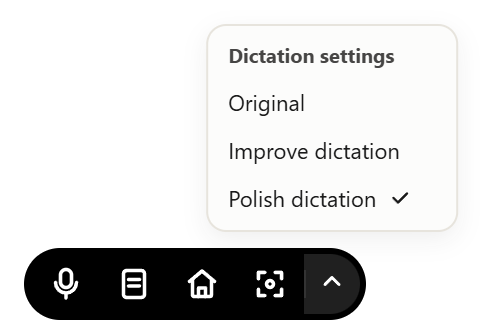
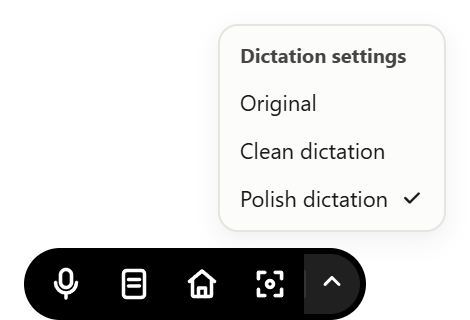
fix: restore Clean dictation and use system-trusted OpenAI connections

diff --git a/renderer/app.js b/renderer/app.js
@@ -590,7 +590,7 @@ function openaiCardHtml(sttEngine) {
   return `<div role="radio" tabindex="0" class="engine-option${isPinned ? " is-pinned" : ""}" data-stt-select="openai" aria-checked="${isChecked ? "true" : "false"}"><div class="engine-normal-view"><div class="engine-head"><strong>gpt-transcribe</strong><button type="button" class="engine-info-btn" data-stt-info="openai" title="Model details" aria-label="Model details">${sttInfoIcon(false)}</button></div><p>Uses OpenAI gpt-transcribe with your personal API key.</p></div><div class="engine-info-view"><div class="engine-info-head"><div class="engine-info-meta"><strong class="engine-info-title">gpt-transcribe</strong><span class="engine-info-tagline">Automatic AI error correction</span></div><button type="button" class="engine-info-btn active" data-stt-info="openai" title="Close details" aria-label="Close details">${sttInfoIcon(true)}</button></div><div class="engine-metrics"><div class="engine-metric-row"><div class="engine-metric-labels"><span>Accuracy</span><strong>93%</strong></div><div class="engine-bar-track"><div class="engine-bar-fill" style="width: 93%;"></div></div></div><div class="engine-metric-row"><div class="engine-metric-labels"><span>Speed (API)</span><strong>34×</strong></div><div class="engine-bar-track"><div class="engine-bar-fill" style="width: 80%;"></div></div></div></div></div></div>`;
 }
 
-  const sttCard = `<div class="settings-card">${ask}<div class="section-label">AI features</div><div class="engine-grid" role="radiogroup" aria-label="Speech-to-Text Engine">${parakeetCardHtml(sttEngine)}${openaiCardHtml(sttEngine)}</div><label class="key">OpenAI API Key ${sttEngine === "parakeet" ? "(Optional)" : ""}<div class="key-row"><input id="api-key" type="password" autocomplete="off" spellcheck="false" placeholder="${esc(hint)}"><button type="button" id="save-key" class="btn-primary">Save Key</button></div></label>${apiKeyMessage(settings) ? `<p class="api-key-status" role="status">${esc(apiKeyMessage(settings))}</p>` : ""}${improvementSwitches(settings)}</div>`;
+  const sttCard = `<div class="settings-card">${ask}<div class="section-label">AI features</div><div class="engine-grid" role="radiogroup" aria-label="Speech-to-Text Engine">${parakeetCardHtml(sttEngine)}${openaiCardHtml(sttEngine)}</div><label class="key">OpenAI API Key ${sttEngine === "parakeet" ? "(Optional)" : ""}<div class="key-row"><input id="api-key" type="password" autocomplete="off" spellcheck="false" placeholder="${esc(hint)}"><button type="button" id="save-key" class="btn-primary">Save Key</button></div></label>${apiKeyMessage(settings) ? `<p class="api-key-status" role="status">${esc(apiKeyMessage(settings))}</p>` : ""}${apiKeyRetry(settings)}${improvementSwitches(settings)}</div>`;
 
   // Floating Bubble Appearance
   const bubbleStyle = state.draftFloatingBubble || settings.floatingBubble || "active";
@@ -710,11 +710,34 @@ function apiKeyMessage(settings) {
   return settings.apiKeyStatus && settings.apiKeyStatus.state !== "valid" ? settings.apiKeyStatus.message || "" : "";
 }
 
+function apiKeyRetry(settings) {
+  return settings.hasKey && settings.apiKeyStatus?.state === "unavailable"
+    ? '<button type="button" class="btn-secondary" data-api-key-retry>Retry</button>' : "";
+}
+
+async function retryApiKey() {
+  if (state.onboardingBusy) return;
+  const speechStep = state.onboardingStep === "apikey";
+  state.onboardingBusy = true;
+  state.onboardingError = "";
+  document.querySelectorAll("[data-api-key-retry]").forEach(button => { button.disabled = true; button.textContent = "Checking…"; });
+  try {
+    const result = await window.openflow.dispatch("settings.verifyKey");
+    if (result.settings.hasWorkingKey) {
+      state.onboardingKey = "";
+      if (speechStep) await window.openflow.dispatch("settings.save", { sttEngine: "openai", onboardingDone: true, noteImproveEnabled: false, dictationCleanupEnabled: false });
+    }
+  } finally {
+    state.onboardingBusy = false;
+    await load();
+  }
+}
+
 function improvementSwitches(settings, prefix = "", compact = false) {
   const ready = Boolean(settings.hasWorkingKey);
   return `<div class="improvement-switches">${[
     ["Improve Notes", "note-improve", settings.noteImproveEnabled !== false, compact ? "Polish and rewrite notes using the sparkle button." : "Rewrite and polish your notes with AI. Use the sparkle button inside a note."],
-    ["Improve Dictation", "dictation-cleanup", settings.dictationCleanupEnabled === true, compact ? "Clean up dictated text before pasting. Choose Improve or Polish in the bubble." : "Remove filler words, stutters, and accidental repetitions before pasting. Choose Original, Improve dictation, or Polish dictation from the bubble menu."],
+    ["Improve Dictation", "dictation-cleanup", settings.dictationCleanupEnabled === true, compact ? "Clean up dictated text before pasting. Choose Clean or Polish in the bubble." : "Remove filler words, stutters, and accidental repetitions before pasting. Choose Original, Clean dictation, or Polish dictation from the bubble menu."],
   ].map(([label, feature, enabled, description]) => `<div class="improvement-switch-row"><div class="improvement-switch-copy"><div class="improvement-switch-heading"><strong>${label}</strong><span class="api-only">(API only)</span></div><p id="${prefix}${feature}-help">${description}</p></div><button type="button" class="switch-btn" role="switch" data-${feature}-enabled aria-checked="${ready && enabled}" aria-label="${label}" aria-describedby="${prefix}${feature}-help"${ready ? "" : " disabled"}><span class="switch-thumb"></span></button></div>`).join("")}</div>`;
 }
 
@@ -1056,7 +1079,7 @@ function paintOnboarding() {
   }
   if (state.onboardingStep === "apikey") {
     const focused = document.activeElement?.id === "onboard-api-key";
-    host.innerHTML = `<div class="onboarding-card ai-onboarding" role="dialog" aria-modal="true"><div><h2>Enter OpenAI API key</h2><p class="sub">Use your OpenAI API key for cloud dictation and optional AI improvements.</p></div><div class="key-row"><input id="onboard-api-key" class="onboard-input" type="password" autocomplete="off" spellcheck="false" placeholder="sk-..." aria-label="OpenAI API key"${state.onboardingBusy ? " disabled" : ""}></div>${state.onboardingError || apiKeyMessage(settings) ? `<p class="api-key-status" role="status">${esc(state.onboardingError || apiKeyMessage(settings))}</p>` : ""}<div class="onboarding-actions"><button type="button" class="btn-secondary" data-onboard-back${state.onboardingBusy ? " disabled" : ""}>Back</button><button type="button" class="btn-primary" data-onboard-save-key${state.onboardingBusy ? " disabled" : ""}>${state.onboardingBusy ? "Checking…" : "Save & continue"}</button></div></div>`;
+    host.innerHTML = `<div class="onboarding-card ai-onboarding" role="dialog" aria-modal="true"><div><h2>Enter OpenAI API key</h2><p class="sub">Use your OpenAI API key for cloud dictation and optional AI improvements.</p></div><div class="key-row"><input id="onboard-api-key" class="onboard-input" type="password" autocomplete="off" spellcheck="false" placeholder="sk-..." aria-label="OpenAI API key"${state.onboardingBusy ? " disabled" : ""}></div>${state.onboardingError || apiKeyMessage(settings) ? `<p class="api-key-status" role="status">${esc(state.onboardingError || apiKeyMessage(settings))}</p>` : ""}${apiKeyRetry(settings)}<div class="onboarding-actions"><button type="button" class="btn-secondary" data-onboard-back${state.onboardingBusy ? " disabled" : ""}>Back</button><button type="button" class="btn-primary" data-onboard-save-key${state.onboardingBusy ? " disabled" : ""}>${state.onboardingBusy ? "Checking…" : "Save & continue"}</button></div></div>`;
     const input = host.querySelector("#onboard-api-key");
     if (input) { input.value = state.onboardingKey; if (focused && !input.disabled) input.focus(); }
     return;
@@ -1068,7 +1091,7 @@ function aiFeaturesOnboardingHtml(settings) {
   const ready = Boolean(settings.hasWorkingKey);
   const keyField = !ready ? `<div class="ai-onboarding-key"><label for="ai-onboard-key">OpenAI API key</label><div class="key-row"><input id="ai-onboard-key" class="onboard-input" type="password" autocomplete="off" spellcheck="false" placeholder="sk-..."${state.onboardingBusy ? " disabled" : ""}><button type="button" class="btn-primary" data-ai-onboard-save-key${state.onboardingBusy ? " disabled" : ""}>${state.onboardingBusy ? "Checking…" : "Save key"}</button></div><p class="sub">Enter a working API key to enable these options.</p></div>` : "";
   const message = state.onboardingError || apiKeyMessage(settings);
-  return `<div class="onboarding-card ai-onboarding" role="dialog" aria-modal="true" aria-labelledby="ai-onboarding-title"><div><h2 id="ai-onboarding-title">AI improvements</h2><p class="sub">Choose optional improvements for dictation and notes.</p></div>${improvementSwitches(settings, "onboard-", true)}${keyField}${message ? `<p class="api-key-status" role="status">${esc(message)}</p>` : ""}<div class="onboarding-actions"><button type="button" class="btn-primary" data-ai-onboard-continue${state.onboardingBusy ? " disabled" : ""}>Continue</button></div></div>`;
+  return `<div class="onboarding-card ai-onboarding" role="dialog" aria-modal="true" aria-labelledby="ai-onboarding-title"><div><h2 id="ai-onboarding-title">AI improvements</h2><p class="sub">Choose optional improvements for dictation and notes.</p></div>${improvementSwitches(settings, "onboard-", true)}${keyField}${message ? `<p class="api-key-status" role="status">${esc(message)}</p>` : ""}${apiKeyRetry(settings)}<div class="onboarding-actions"><button type="button" class="btn-primary" data-ai-onboard-continue${state.onboardingBusy ? " disabled" : ""}>Continue</button></div></div>`;
 }
 
 async function saveOnboardingKey(speechStep) {
@@ -1287,6 +1310,7 @@ document.addEventListener("DOMContentLoaded", () => {
   });
 
   document.querySelector("#view").addEventListener("click", async (event) => {
+    if (event.target.closest("[data-api-key-retry]")) { await retryApiKey(); return; }
     const copyOriginal = event.target.closest("[data-copy-dictation-original]");
     if (copyOriginal && window.openflow) {
       const row = (state.desk.history || []).find(row => row.id === copyOriginal.dataset.copyDictationOriginal);
@@ -2012,6 +2036,7 @@ document.addEventListener("DOMContentLoaded", () => {
   });
 
   document.querySelector("#onboarding").addEventListener("click", async (event) => {
+    if (event.target.closest("[data-api-key-retry]")) { await retryApiKey(); return; }
     const choose = event.target.closest("[data-onboard-choose]");
     if (choose) {
       const choice = choose.dataset.onboardChoose;

diff --git a/src/api-key-status.js b/src/api-key-status.js
@@ -3,7 +3,7 @@
 const crypto = require("node:crypto");
 const providers = require("./providers");
 
-function createApiKeyStatus({ readKey, fetchImpl = fetch, onChange = () => {} }) {
+function createApiKeyStatus({ readKey, fetchImpl = fetch, onChange = () => {}, retryDelay = 400 }) {
   let fingerprint = "";
   let state = { state: "missing", message: "" };
   let pending = null;
@@ -27,21 +27,52 @@ function createApiKeyStatus({ readKey, fetchImpl = fetch, onChange = () => {} })
     if (!key) { publish({ state: "missing", message: "" }); return status(); }
     publish({ state: "checking", message: "Checking API key…" });
     const work = (async () => {
-      try {
-        const request = providers.chatRequest({ provider: "openai", apiKey: key, model: "gpt-6-luna", system: "Return exactly OK.", user: "Key check." });
-        const body = JSON.parse(request.init.body);
-        delete body.temperature;
-        Object.assign(body, { reasoning_effort: "none", max_completion_tokens: 16, store: false });
-        const response = await fetchImpl(request.url, { ...request.init, body: JSON.stringify(body), signal: AbortSignal.timeout(12000) });
-        let next;
-        if (response.ok && providers.parseChatText(await response.json()).trim()) next = { state: "valid", message: "API key verified." };
-        else if ([401, 403].includes(response.status)) next = { state: "invalid", message: "API key rejected. Check the key and its permissions." };
-        else if (response.status === 429) next = { state: "unavailable", message: "Key could not be verified. Check API credit or try again shortly." };
-        else if (response.status === 404) next = { state: "invalid", message: "This key cannot access the improvement model." };
-        else next = { state: "unavailable", message: "Key could not be verified. Please try again." };
-        if (id === fingerprint && id === identify(readKey())) publish(next);
-      } catch {
-        if (id === fingerprint && id === identify(readKey())) publish({ state: "unavailable", message: "Could not reach OpenAI. Save the key again to retry." });
+      const request = providers.chatRequest({ provider: "openai", apiKey: key, model: "gpt-6-luna", system: "Return exactly OK.", user: "Key check." });
+      const body = JSON.parse(request.init.body);
+      delete body.temperature;
+      Object.assign(body, { reasoning_effort: "none", max_completion_tokens: 16, store: false });
+      const current = () => id === fingerprint && id === identify(readKey());
+      async function probe() {
+        let response;
+        try {
+          response = await fetchImpl(request.url, { ...request.init, body: JSON.stringify(body), signal: AbortSignal.timeout(15000) });
+        } catch (error) {
+          const code = String(error.cause?.code || error.code || "");
+          const certificate = /CERT|TLS|SSL/.test(code) || /ERR_CERT/.test(String(error.message));
+          const timeout = ["TimeoutError", "AbortError"].includes(error.name);
+          return { state: "unavailable", retryable: !certificate, message: certificate
+            ? "OpenAI's secure connection could not be verified. Check your system certificates or proxy, then retry."
+            : timeout ? "OpenAI verification timed out. Retry with the saved key."
+              : "Could not connect to OpenAI. Check your connection and retry with the saved key." };
+        }
+        if (response.ok) {
+          try {
+            if (providers.parseChatText(await response.json()).trim()) return { state: "valid", message: "" };
+          } catch {}
+          return { state: "unavailable", retryable: true, message: "OpenAI returned an incomplete verification response. Retry with the saved key." };
+        }
+        if ([401, 403].includes(response.status)) return { state: "invalid", message: "API key rejected. Check the key and its permissions." };
+        if (response.status === 404) return { state: "invalid", message: "This key cannot access the improvement model." };
+        if (response.status === 429) {
+          let quota = false;
+          try { quota = (await response.json()).error?.code === "insufficient_quota"; } catch {}
+          return { state: "unavailable", retryable: !quota, message: quota
+            ? "API credit is unavailable. Check billing, then retry with the saved key."
+            : "OpenAI is rate limiting verification. Please retry shortly." };
+        }
+        return { state: "unavailable", retryable: response.status === 408 || response.status >= 500,
+          message: "OpenAI could not verify the key right now. Retry with the saved key." };
+      }
+      for (let attempt = 0; attempt < 2; attempt++) {
+        const next = await probe();
+        if (!current()) break;
+        if (next.retryable && attempt === 0) {
+          await new Promise(resolve => setTimeout(resolve, retryDelay));
+          if (!current()) break;
+          continue;
+        }
+        publish({ state: next.state, message: next.message });
+        break;
       }
       return status();
     })();

diff --git a/docs/preview-clean-dictation.html b/docs/preview-clean-dictation.html
@@ -4,24 +4,22 @@
 <meta charset="utf-8">
 <title>OpenFlow — Improve Dictation</title>
 <style>
-*{box-sizing:border-box}html,body{margin:0;width:1100px;height:420px;overflow:hidden;background:#f5f4f0;color:#1a1a1a;font-family:"Segoe UI",system-ui,sans-serif;-webkit-font-smoothing:antialiased}
+*{box-sizing:border-box}html,body{margin:0;width:1100px;height:360px;overflow:hidden;background:#f5f4f0;color:#1a1a1a;font-family:"Segoe UI",system-ui,sans-serif;-webkit-font-smoothing:antialiased}
 body{padding:28px 32px;display:grid;grid-template-columns:400px 1fr;gap:32px;align-items:center}
-.visual{height:364px;background:#fcfcfb;border:1px solid #e5e1d7;border-radius:20px;display:flex;flex-direction:column;align-items:center;justify-content:center;padding:18px;gap:8px}
+.visual{height:304px;background:#fcfcfb;border:1px solid #e5e1d7;border-radius:20px;display:flex;align-items:center;justify-content:center;padding:10px}
 .visual img{display:block;width:364px;max-height:284px;object-fit:contain}
-.visual p{margin:0;color:#71716e;text-align:center;font-size:13px;line-height:1.5;max-width:300px}
 .copy{min-width:0}h1{font-family:Georgia,"Palatino Linotype",serif;font-size:36px;font-weight:500;letter-spacing:-.025em;line-height:1.1;margin:0 0 8px}
 .subtitle{font-size:16px;color:#71716e;margin:0 0 18px}
 .example{background:#fcfcfb;border:1px solid #e5e1d7;border-radius:12px;padding:13px 16px;margin-top:10px}
 .label{font-size:10px;font-weight:650;letter-spacing:.06em;color:#878683;margin-bottom:6px;text-transform:uppercase;display:flex;align-items:center;gap:7px}
 .example p{margin:0;font-size:16px;line-height:1.5}.filler{color:#9a968f;text-decoration:line-through;text-decoration-color:#bfb8ac}
 .result{background:#fff;border-color:#cbc5b8}.result .label{color:#1a1a1a}.result svg{width:12px;height:12px}
-.footer{margin:13px 0 0;color:#71716e;font-size:12px;line-height:1.5}
 </style>
 </head>
 <body>
-<div class="visual"><img src="clean-dictation-menu.png" alt="Actual OpenFlow bubble and compact Dictation settings menu with Polish dictation selected."><p>Hover over the arrow.<br>Choose Polish dictation for a smoother result.</p></div>
+<div class="visual"><img src="clean-dictation-menu.png" alt="Actual OpenFlow bubble and compact Dictation settings menu with Original, Clean dictation, and Polish dictation selected."></div>
 <div class="copy"><h1>Improve Dictation</h1><p class="subtitle">Speak naturally. Paste clearly.</p>
 <div class="example"><div class="label">Original example</div><p><span class="filler">Um,</span> the meeting with Alice are on Friday at 2 pm. I wanted to ask if you can send me the report before then. Please don't cancel it.</p></div>
 <div class="example result"><div class="label"><svg viewBox="0 0 16 16" fill="none" stroke="currentColor" stroke-width="1.7" stroke-linecap="round" stroke-linejoin="round"><path d="m3 8 3 3 7-7"/></svg>Polish dictation</div><p>The meeting with Alice <strong>is</strong> on <strong>Friday at 2 pm</strong>. Could you send me the report before then? Please <strong>don't cancel</strong> it.</p></div>
-<p class="footer">Remove fillers. Correct grammar. Smooth phrasing. Keep the meaning.<br>Optional AI improvements use your own OpenAI API key.</p></div>
+</div>
 </body></html>

diff --git a/renderer/overlay.html b/renderer/overlay.html
@@ -129,7 +129,7 @@
     <div id="menu" class="menu cleanup-menu" role="menu" aria-labelledby="cleanup-menu-title" hidden>
       <div class="cleanup-title" id="cleanup-menu-title" role="heading" aria-level="2">Dictation settings</div>
       <button class="row" type="button" role="menuitemradio" data-cleanup-mode="raw" aria-checked="true"><span class="cleanup-label">Original</span><span class="mark" aria-hidden="true"><svg viewBox="0 0 16 16" fill="none" stroke="currentColor" stroke-width="1.6" stroke-linecap="round" stroke-linejoin="round"><path d="m3.5 8 3 3 6-6"/></svg></span></button>
-      <button class="row" type="button" role="menuitemradio" data-cleanup-mode="fillers" aria-checked="false"><span class="cleanup-label">Improve dictation</span><span class="mark" aria-hidden="true"><svg viewBox="0 0 16 16" fill="none" stroke="currentColor" stroke-width="1.6" stroke-linecap="round" stroke-linejoin="round"><path d="m3.5 8 3 3 6-6"/></svg></span></button>
+      <button class="row" type="button" role="menuitemradio" data-cleanup-mode="fillers" aria-checked="false"><span class="cleanup-label">Clean dictation</span><span class="mark" aria-hidden="true"><svg viewBox="0 0 16 16" fill="none" stroke="currentColor" stroke-width="1.6" stroke-linecap="round" stroke-linejoin="round"><path d="m3.5 8 3 3 6-6"/></svg></span></button>
       <button class="row" type="button" role="menuitemradio" data-cleanup-mode="polished" aria-checked="false"><span class="cleanup-label">Polish dictation</span><span class="mark" aria-hidden="true"><svg viewBox="0 0 16 16" fill="none" stroke="currentColor" stroke-width="1.6" stroke-linecap="round" stroke-linejoin="round"><path d="m3.5 8 3 3 6-6"/></svg></span></button>
     </div>
     <button id="grip" type="button" aria-label="OpenFlow"><span></span></button>
@@ -434,7 +434,7 @@
       cleanupToggle.hidden = !open || !cleanupEnabled;
       cleanupToggle.setAttribute("aria-expanded", String(menuOpen));
       cleanupToggle.classList.toggle("is-cleaned", cleanupMode !== "raw");
-      cleanupToggle.dataset.tooltip = cleanupMode === "polished" ? "Polish dictation" : cleanupMode === "fillers" ? "Improve dictation" : "Original";
+      cleanupToggle.dataset.tooltip = cleanupMode === "polished" ? "Polish dictation" : cleanupMode === "fillers" ? "Clean dictation" : "Original";
       menu.hidden = !open || !menuOpen;
       mic.setAttribute("aria-pressed", mode === "listening" ? "true" : "false");
       document.querySelectorAll("[data-cleanup-mode]").forEach(button => {

diff --git a/test/api-key-status.test.js b/test/api-key-status.test.js
@@ -51,3 +51,25 @@ test('Luna cleanup uses one compatible request and preserves medium reasoning qu
  }});
  await completion.complete({kind:'dictation-cleanup',system:'test',user:'test',temperature:0});assert.equal(calls,1);
 });
+
+test('temporary network and service errors retry once; saved keys can be rechecked without saving',async()=>{
+ for(const failure of [()=>{throw Object.assign(new Error('offline'),{cause:{code:'ECONNRESET'}})},()=>reply(503),()=>({ok:true,status:200,json:async()=>{throw SyntaxError('not JSON')}})]){
+  let calls=0;const gate=createApiKeyStatus({readKey:()=> 'test-key',retryDelay:0,fetchImpl:async()=>++calls===1?failure():reply()});
+  await gate.validate();assert.equal(calls,2);assert.equal(gate.ready(),true);
+ }
+ let available=false,calls=0;
+ const gate=createApiKeyStatus({readKey:()=> 'unchanged-key',retryDelay:0,fetchImpl:async()=>{calls++;if(!available)throw Error('offline');return reply()}});
+ await gate.validate();assert.equal(gate.status().state,'unavailable');assert.doesNotMatch(gate.status().message,/save.*again/i);
+ available=true;await gate.validate(true);assert.equal(gate.ready(),true);assert.equal(calls,3);
+});
+
+test('certificates, rejected keys, quota and malformed replies retain distinct safe statuses',async()=>{
+ const cases=[
+  [()=>{throw Object.assign(new Error('secret-key'),{cause:{code:'SELF_SIGNED_CERT_IN_CHAIN'}})},'unavailable',/secure connection/,1],
+  [()=>reply(401),'invalid',/rejected/,1],
+  [()=>({ok:false,status:429,json:async()=>({error:{code:'insufficient_quota'}})}),'unavailable',/credit/,1],
+  [()=>({ok:true,status:200,json:async()=>({choices:[]})}),'unavailable',/incomplete verification response/,2],
+  [()=>{throw Object.assign(new Error('secret-key'),{name:'TimeoutError'})},'unavailable',/timed out/,2]
+ ];
+ for(const [failure,state,message,expected] of cases){let calls=0;const gate=createApiKeyStatus({readKey:()=> 'secret-key',retryDelay:0,fetchImpl:async()=>{calls++;return failure()}});await gate.validate();assert.equal(gate.status().state,state);assert.match(gate.status().message,message);assert.doesNotMatch(JSON.stringify(gate.status()),/secret-key/);assert.equal(calls,expected);assert.equal(gate.ready(),false)}
+});

diff --git a/README.md b/README.md
@@ -39,14 +39,14 @@ Hover over the arrow on the right of the bubble to open **Dictation settings**:
 | Mode | What it does |
 | :--- | :--- |
 | **Original** | Paste without an extra AI rewrite. |
-| **Improve dictation** | Remove filler sounds, stutters, and accidental repetitions while keeping your wording and meaning. |
+| **Clean dictation** | Remove filler sounds, stutters, and accidental repetitions while keeping your wording and meaning. |
 | **Polish dictation** | Also correct grammar and smooth awkward or redundant phrasing, while preserving facts, tone, and language. |
 
 A small animated sparkle appears while AI cleanup is processing. If a request fails or the result fails validation, OpenFlow keeps the original text. Raw dictation remains in local history, with **Copy original** available after cleanup.
 
 The **AI improvements** onboarding lets you enable **Improve Notes** and **Improve Dictation** independently. It reuses an existing verified OpenAI key, or lets you enter one in the same window. Both switches remain disabled until the key works, and both retain their **(API only)** labels in **Settings → AI features**. Local Parakeet speech recognition remains available independently; AI cleanup uses OpenAI.
 
-**Usage → Note & Dictation API** combines note improvements with Improve and Polish Dictation: processed words, tokens, and estimated API cost over the last 30 days. New dictation requests use API-reported tokens when available, including cached input; older successful dictation cleanups are included as clearly marked estimates. Original mode adds no cleanup usage. OpenAI STT and local speech-recognition usage stay in their own views.
+**Usage → Note & Dictation API** combines note improvements with Clean and Polish Dictation: processed words, tokens, and estimated API cost over the last 30 days. New dictation requests use API-reported tokens when available, including cached input; older successful dictation cleanups are included as clearly marked estimates. Original mode adds no cleanup usage. OpenAI STT and local speech-recognition usage stay in their own views.
 
 ---
 
@@ -98,7 +98,7 @@ OpenFlow features a warm, distraction-free two-column layout (`820 × 540`) comb
 
 1. **Hold & Speak (`Ctrl` + `Win` or `microphone`)**: OpenFlow captures 16-bit PCM audio at 24 kHz and monitors RMS energy + speech-band zero-crossing rates. Pure silence is discarded automatically.
 2. **Transcribe (`Parakeet v3` Local or `OpenAI API`)**: Valid speech audio is sliced into 16 kHz mono WAV segments and sent either to the bundled **Parakeet v3** model (running warm in the background on your PC) or over HTTPS to `api.openai.com/v1/audio/transcriptions` (`gpt-transcribe`).
-3. **Optional AI cleanup**: Choose **Improve dictation** to remove speech fillers or **Polish dictation** to also improve grammar and phrasing. **Original** skips this step.
+3. **Optional AI cleanup**: Choose **Clean dictation** to remove speech fillers or **Polish dictation** to also improve grammar and phrasing. **Original** skips this step.
 4. **Direct Paste (`Ctrl` + `V`)**: When an editable input field was focused before recording started, OpenFlow writes the transcript to the clipboard and dispatches `Ctrl` + `V` into the target window.
 5. **Auto-Open Note (Fallback)**: When no text input field is focused—or if pasting is unavailable—OpenFlow automatically saves the dictated text as a new note and **immediately opens that note** in the UI.
 
@@ -125,7 +125,7 @@ OpenFlow has **zero subscriptions or middleman fees**:
 
 Download the latest Windows installer from the [**Releases**](https://github.com/LuiInventions/OpenFlow/releases) page:
 
-- **`OpenFlow-Setup-1.5.22.exe`** — Lightweight Windows NSIS Web/Stub Installer (~1 MB download) with customizable install directory, Start Menu entry, and Desktop shortcut. Automatically fetches the application package from GitHub Releases during setup, checks whether **Parakeet v3** is already installed (skipping download if present, or showing a live MB progress bar), and then opens OpenFlow. Notes use a narrow left rail to collapse, search, open another note, improve, and format. The rail icons line up with the first line of the note. Search in Notes shows every saved note, and long titles wrap instead of being cut off. Note improvement slides up under Copy and Save, and suggestions show a spinner while they generate. Includes Clean/Polish Dictation, verified-key onboarding, and combined Note & Dictation API usage.
+- **`OpenFlow-Setup-1.5.23.exe`** — Lightweight Windows NSIS Web/Stub Installer (~1 MB download) with customizable install directory, Start Menu entry, and Desktop shortcut. Automatically fetches the application package from GitHub Releases during setup, checks whether **Parakeet v3** is already installed (skipping download if present, or showing a live MB progress bar), and then opens OpenFlow. Notes use a narrow left rail to collapse, search, open another note, improve, and format. The rail icons line up with the first line of the note. Search in Notes shows every saved note, and long titles wrap instead of being cut off. Note improvement slides up under Copy and Save, and suggestions show a spinner while they generate. Includes Clean/Polish Dictation, verified-key onboarding, and combined Note & Dictation API usage.
 
 Requirements: Windows 10 or Windows 11 (64-bit). An OpenAI API key is optional.
 
@@ -139,7 +139,7 @@ npm test
 npm run dist
 ```
 
-This builds the Windows NSIS Web Stub installer (`release/nsis-web/OpenFlow-Setup-1.5.22.exe`).
+This builds the Windows NSIS Web Stub installer (`release/nsis-web/OpenFlow-Setup-1.5.23.exe`).
 
 For a full installer containing the application package, built locally without publishing:
 
@@ -147,7 +147,7 @@ For a full installer containing the application package, built locally without p
 npm run dist:local
 ```
 
-Output: `release-local/OpenFlow-Setup-1.5.22-local.exe`. Speech/text model downloads are separate; existing models on this PC are reused.
+Output: `release-local/OpenFlow-Setup-1.5.23-local.exe`. Speech/text model downloads are separate; existing models on this PC are reused.
 
 ---
 

diff --git a/docs/dictation-cleanup-levels.md b/docs/dictation-cleanup-levels.md
@@ -29,14 +29,14 @@ The request uses the shared OpenAI GPT-6 Luna completion service, medium reasoni
 Keep the current global Improve Dictation switch and compact hover menu, with three radio options:
 
 1. Original — no text-improvement request.
-2. Improve dictation — retain the current conservative cleanup behavior.
+2. Clean dictation — retain the current conservative cleanup behavior.
 3. Polish dictation — cleanup plus grammar correction and restrained rephrasing for clarity and conciseness.
 
-Keep Improve dictation as the existing selection after migration. Do not silently promote users to the stronger level. Turning the master switch off must hide the arrow, select Original and cancel pending cleanup. Keep the native overlay size stable when opening the menu or changing a selection, as in the flicker fix. Reserve a fixed expanded overlay height of approximately 176 CSS pixels instead of the current 144 for the third row and shadow. Verify it at supported display scales; never resize on each selection or menu open/close.
+Keep Clean dictation as the existing selection after migration. Do not silently promote users to the stronger level. Turning the master switch off must hide the arrow, select Original and cancel pending cleanup. Keep the native overlay size stable when opening the menu or changing a selection, as in the flicker fix. Reserve a fixed expanded overlay height of approximately 176 CSS pixels instead of the current 144 for the third row and shadow. Verify it at supported display scales; never resize on each selection or menu open/close.
 
 ## Implementation steps
 
-1. **Modes and persistence.** Extend the allowed mode set from `raw | fillers` to `raw | fillers | polished` in `src/store.js`, the settings IPC handler in `electron/main.cjs`, and `active()` in `src/dictation-cleanup.js`. Update menu rows and rendering in `renderer/overlay.html`. Keep the stored `fillers` identifier to preserve existing settings; change only its displayed label to Improve dictation.
+1. **Modes and persistence.** Extend the allowed mode set from `raw | fillers` to `raw | fillers | polished` in `src/store.js`, the settings IPC handler in `electron/main.cjs`, and `active()` in `src/dictation-cleanup.js`. Update menu rows and rendering in `renderer/overlay.html`. Keep the stored `fillers` identifier to preserve existing settings; change only its displayed label to Clean dictation.
 2. **Two prompts, one request.** Retain the existing cleanup prompt for `fillers`. Add a separate `polished` prompt with shared preservation rules. Select one prompt before making one GPT-6 Luna request. Do not call the light level and then the polished level consecutively. This avoids a second model round trip and cumulative rewriting.
 3. **Scope of polishing.** Permit grammar correction, smoother sentence structure and removal of redundant phrasing. Preserve facts, names, numeric values, dates, negations, uncertainty, commitments, tone, perspective and input language. Do not infer an email, list, summary or different register from destination-app context in this initial version. Treat code and literal strings conservatively. Do not resolve contradictory dates/numbers or spoken self-corrections in the first version; preserve ambiguous content.
 4. **Validation and fallback.** Make validation mode-aware. Retain literal checks for numbers, URLs, emails and negations; do not disable protected-detail checks just to allow shorter wording. Apply a separately evaluated shortening bound for polished text, since filler cleanup and paraphrasing have different expected lengths. Keep ambiguous or rejected results out of the paste path and retain the original. Do not treat the model's own confidence as proof of factual preservation.
@@ -54,7 +54,7 @@ The exact shipped prompt is in `dictation-polish-system-prompt.txt`; the draft b
 
 Input: “Ähm, ich ich wollte dir sagen, also der Termin bleibt am Freitag um 14 Uhr und bitte nicht absagen.”
 
-- Improve dictation: “Ich wollte dir sagen, der Termin bleibt am Freitag um 14 Uhr und bitte nicht absagen.”
+- Clean dictation: “Ich wollte dir sagen, der Termin bleibt am Freitag um 14 Uhr und bitte nicht absagen.”
 - Polish dictation: “Der Termin bleibt am Freitag um 14 Uhr. Bitte nicht absagen.”
 
 The differentiator is restrained reformulation, not more aggressive deletion of information. Keep this implementation within the existing prompt, validation, settings and overlay modules; no second model, background agent or additional cloud service is required.

diff --git a/docs/api-connection-verification.md b/docs/api-connection-verification.md
@@ -1,0 +1,13 @@
+# API connection verification (v1.5.23)
+
+A live comparison on the affected Windows machine reproduced the reported error using the saved key in an isolated profile. The key itself was never logged.
+
+- Node fetch: `SELF_SIGNED_CERT_IN_CHAIN`, before receiving an HTTP response.
+- Electron Chromium `net.fetch`: HTTP 200 with a successful model completion using the same key and verification payload.
+- Updated app: the saved key became valid; both Clean dictation and Polish dictation successfully processed a synthetic dictation while preserving the person, time and negation.
+
+OpenAI requests in the main process use `net.fetch`, including verification, note/dictation improvements, speech recognition and speech output. TLS certificate validation stays enabled. There is no insecure certificate callback or disabled verification.
+
+Verification retries one temporary network/server/incomplete-response failure. A saved key can be rechecked through Retry in Settings and onboarding. Temporary unavailability keeps the saved feature preferences while disabling API switches until the key is verified.
+
+References: [Electron net](https://www.electronjs.org/docs/latest/api/net/), [OpenAI error handling](https://developers.openai.com/api/docs/guides/error-codes).

diff --git a/docs/ai-improvements-onboarding.md b/docs/ai-improvements-onboarding.md
@@ -5,7 +5,7 @@ The AI improvements step follows the speech-engine setup and replaces the previo
 - Improve Notes and Improve Dictation have independent switches with the persistent `(API only)` labels.
 - A working key from the speech-engine step is reused. If no working key is available, both switches are disabled and a password field with Save key appears in the same dialog.
 - Saving an invalid key retains the input and shows the existing failure message. Successful verification removes the field and enables the switches without displaying an API key verified message.
-- Enabling cleanup in onboarding selects Improve dictation when the previous mode was Original, so turning it on has an immediate effect. Existing Polish dictation selections are preserved.
+- Enabling cleanup in onboarding selects Clean dictation when the previous mode was Original, so turning it on has an immediate effect. Existing Polish dictation selections are preserved.
 - Continue without a key completes the optional step without enabling improvements. Continuing during automatic verification preserves existing saved preferences.
 - Key entry works with Enter; draft input survives background settings refreshes. A completed step stays completed across restart.
 
